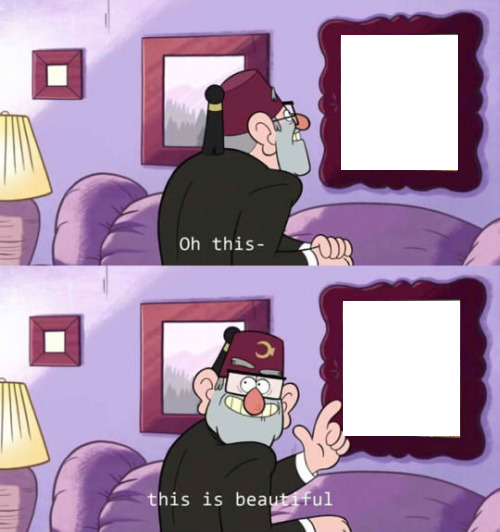
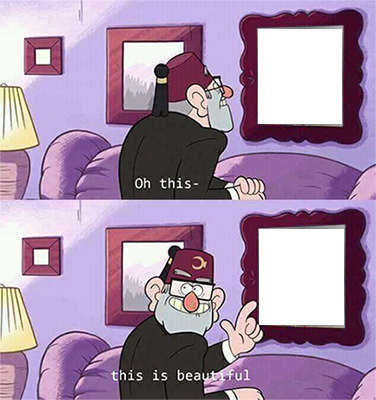
Make steam-card and beautiful better

diff --git a/commands/avatar-edit/steam-card.js b/commands/avatar-edit/steam-card.js
@@ -10,7 +10,7 @@ module.exports = class SteamCardCommand extends Command {
 	constructor(client) {
 		super(client, {
 			name: 'steam-card',
-			aliases: ['valve-card'],
+			aliases: ['valve-card', 'card', 'discord-card'],
 			group: 'avatar-edit',
 			memberName: 'steam-card',
 			description: 'Draws a user\'s avatar on a Steam Trading Card.',
@@ -31,19 +31,22 @@ module.exports = class SteamCardCommand extends Command {
 	}
 
 	async run(msg, { user }) {
-		const avatarURL = user.displayAvatarURL({ format: 'png', size: 512 });
+		const avatarURL = user.displayAvatarURL({ format: 'png', size: 256 });
 		try {
 			const base = await loadImage(path.join(__dirname, '..', '..', 'assets', 'images', 'steam-card.png'));
 			const { body } = await request.get(avatarURL);
 			const avatar = await loadImage(body);
 			const canvas = createCanvas(base.width, base.height);
 			const ctx = canvas.getContext('2d');
-			ctx.fillStyle = 'white';
+			ctx.fillStyle = '#feb2c1';
 			ctx.fillRect(0, 0, base.width, base.height);
-			ctx.drawImage(avatar, 25, 25, 450, 450);
+			ctx.fillStyle = 'white';
+			ctx.drawImage(avatar, 12, 19, 205, 205);
 			ctx.drawImage(base, 0, 0);
-			ctx.font = '30px Noto';
-			ctx.fillText(user.username, 35, 48);
+			ctx.font = '14px Noto';
+			ctx.fillText(user.username, 14, 11);
+			ctx.fillStyle = 'black';
+			ctx.fillText(user.username, 16, 12);
 			return msg.say({ files: [{ attachment: canvas.toBuffer(), name: 'steam-card.png' }] });
 		} catch (err) {
 			return msg.reply(`Oh no, an error occurred: \`${err.message}\`. Try again later!`);

diff --git a/commands/avatar-edit/beautiful.js b/commands/avatar-edit/beautiful.js
@@ -28,7 +28,7 @@ module.exports = class BeautifulCommand extends Command {
 	}
 
 	async run(msg, { user }) {
-		const avatarURL = user.displayAvatarURL({ format: 'png', size: 256 });
+		const avatarURL = user.displayAvatarURL({ format: 'png', size: 128 });
 		try {
 			const base = await loadImage(path.join(__dirname, '..', '..', 'assets', 'images', 'beautiful.png'));
 			const { body } = await request.get(avatarURL);
@@ -37,9 +37,9 @@ module.exports = class BeautifulCommand extends Command {
 			const ctx = canvas.getContext('2d');
 			ctx.fillStyle = 'white';
 			ctx.fillRect(0, 0, base.width, base.height);
+			ctx.drawImage(avatar, 249, 24, 105, 105);
+			ctx.drawImage(avatar, 249, 223, 105, 105);
 			ctx.drawImage(base, 0, 0);
-			ctx.drawImage(avatar, 341, 35, 117, 135);
-			ctx.drawImage(avatar, 343, 301, 117, 135);
 			return msg.say({ files: [{ attachment: canvas.toBuffer(), name: 'beautiful.png' }] });
 		} catch (err) {
 			return msg.reply(`Oh no, an error occurred: \`${err.message}\`. Try again later!`);

diff --git a/README.md b/README.md
@@ -15,7 +15,7 @@ Xiao is a Discord bot coded in JavaScript with
 The bot is no longer available for invite. You can self-host the bot, or use her
 on the [home server](https://discord.gg/sbMe32W).
 
-## Commands (292)
+## Commands (291)
 ### Utility:
 
 * **eval**: Executes JavaScript code.
@@ -251,7 +251,6 @@ on the [home server](https://discord.gg/sbMe32W).
 * **avatar-fusion**: Draws a a user's avatar over a user's avatar.
 * **beautiful**: Draws a user's avatar over Gravity Falls' "Oh, this? This is beautiful." meme.
 * **bob-ross**: Draws a user's avatar over Bob Ross' canvas.
-* **card**: Draws a trading card of random rarity based on a user's profile.
 * **challenger**: Draws a user's avatar over Super Smash Bros.'s "Challenger Approaching" screen.
 * **dexter**: Draws a user's avatar over the screen of Dexter from Pokémon.
 * **distracted-boyfriend**: Draws three user's avatars over the "Distracted Boyfriend" meme.
